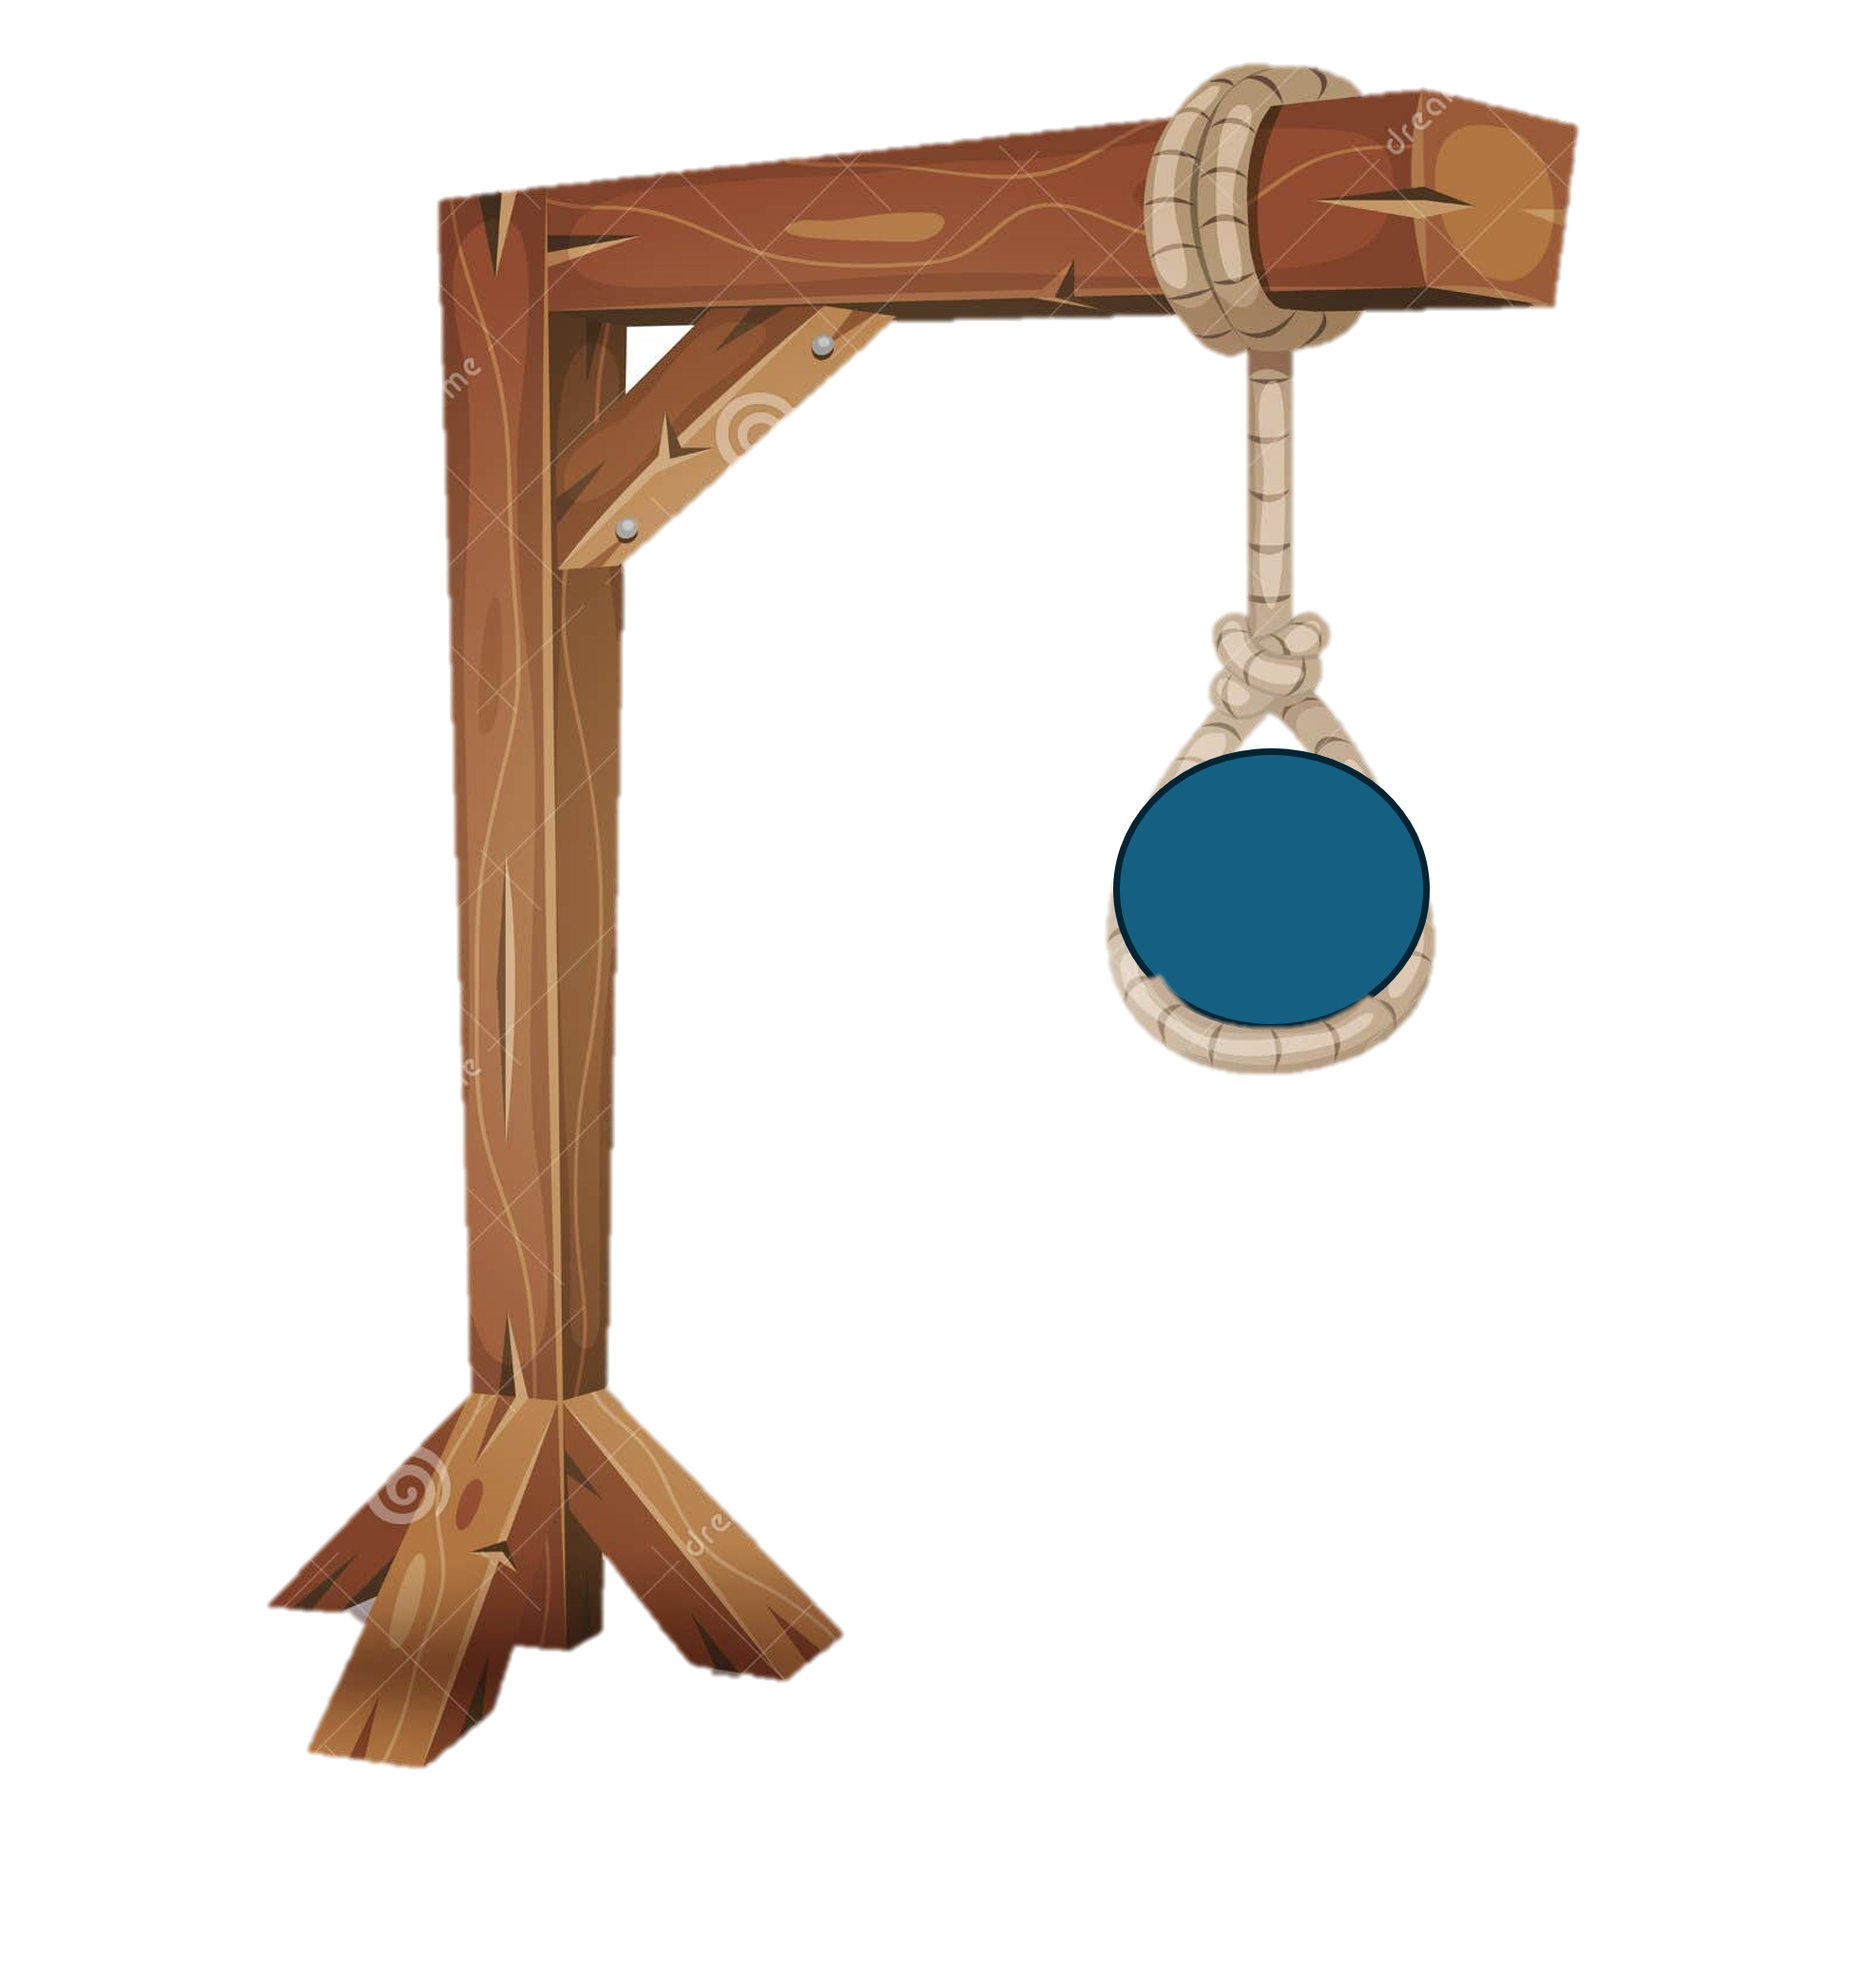
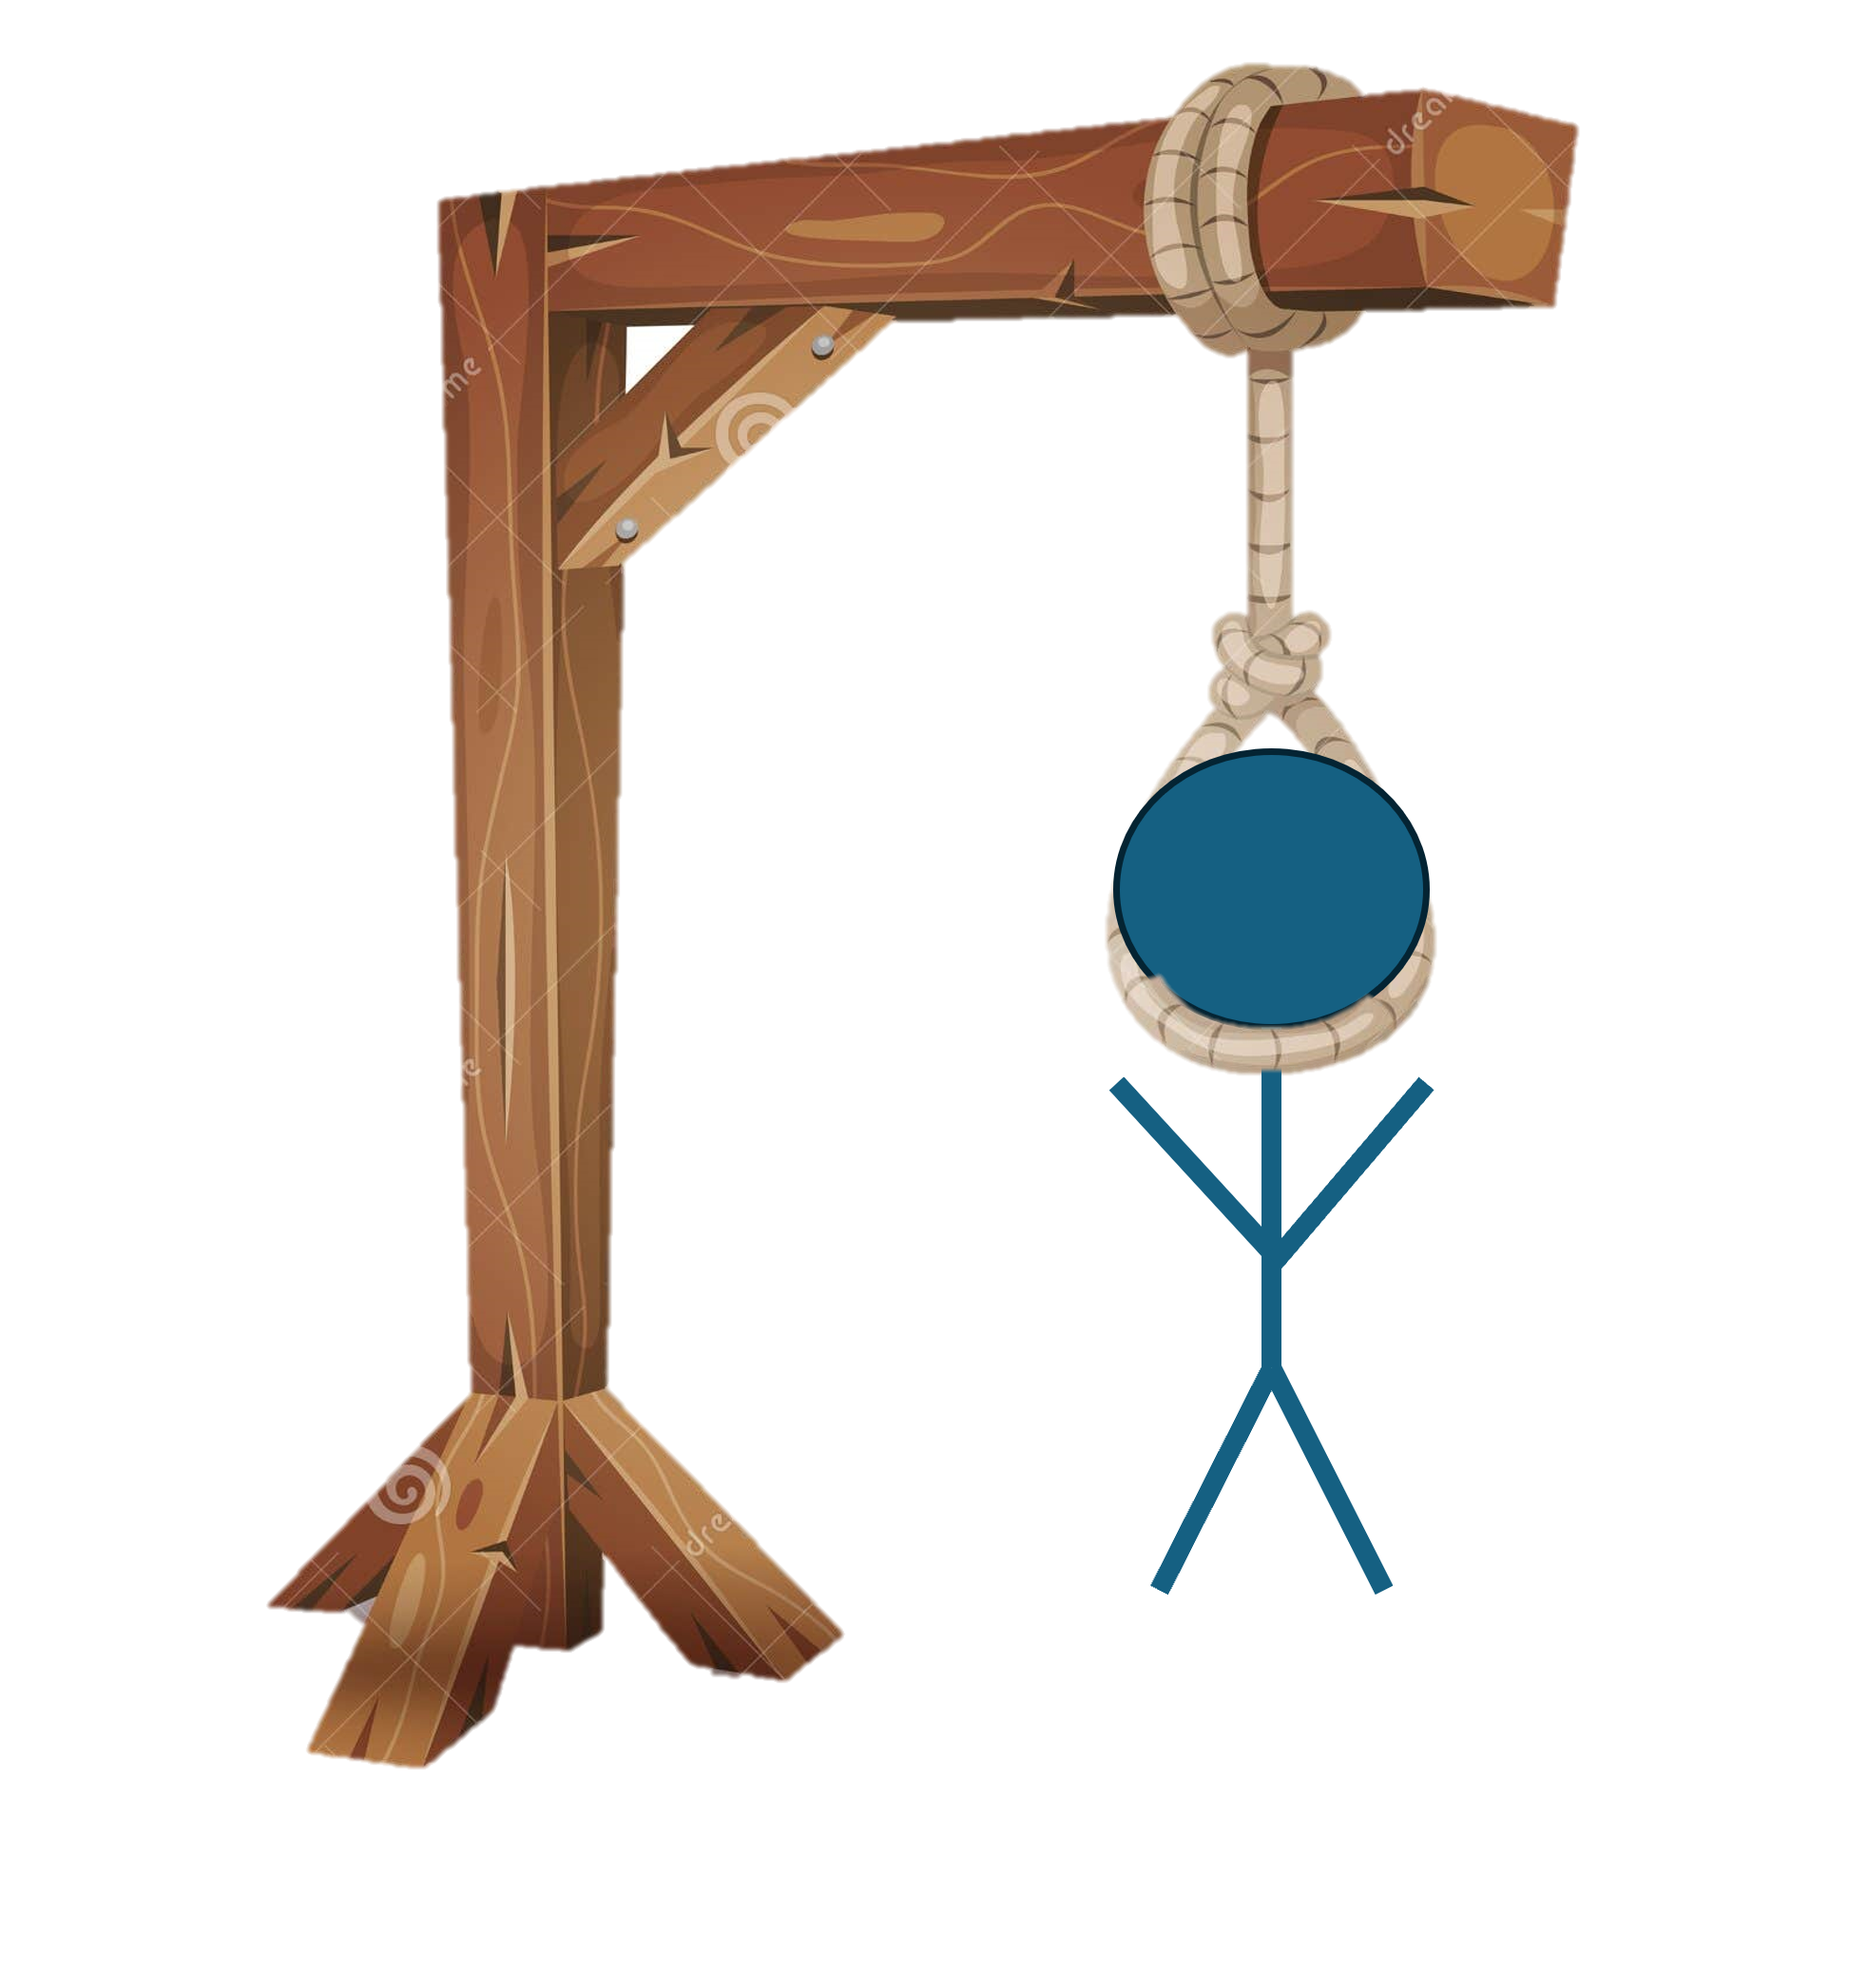
Se arregló la conexión entre los archivos js y html y se implementó la funcionalidad de los botones y que por cada error la imagen del ahorcado cambie

Changed region(s): [[0.5898, 0.5241, 0.7761, 0.8015], [0.6209, 0.7399, 0.6519, 0.8015]]

diff --git a/Ahorcado.js b/Ahorcado.js
@@ -1,23 +1,32 @@
+//Se creó la variable gloal palabra de la lista para poder utilizarla también al momento de 
+//interactuar con los botones de las letras
+let palabra_de_lista;
+let cant_errores = 0;
+let cant_aciertos = 0;
+
+
+
+
 //Creación de la constante palabras que va a ser una lista de palabras para adivinar
 const palabras = [
-    "hipopótamo",
-    "paralelepípedo",
-    "onomatopeya",
-    "sesquipedal",
-    "esternocleidomastoideo",
-    "electroencefalografista",
-    "quiropráctico",
-    "desoxirribonucleico",
-    "anticonstitucionalmente",
-    "ultramicroscópicamente"
+    'hipopótamo',
+    'paralelepipedo',
+    'onomatopeya',
+    'sesquipedal',
+    'esternocleidomastoideo',
+    'electroencefalografista',
+    'quiropractico',
+    'desoxirribonucleico',
+    'anticonstitucionalmente',
+    'ultramicroscopicamente'
 ];
-//se definió el boton jugar con el id que se le dio anteriormente al mismo
+//Se definió el boton jugar con el id que se le dio anteriormente al mismo
 //Luego se utilizó el método addEventListener que va a permitir que el navegador considere
 //la interacción click en el botón y se inicie el juego
-const button = id("jugar");
-button.addEventListener('Click', iniciar);
+const button = id('jugar');
+button.addEventListener('click', iniciar);
 
-console.log(button);
+console.log(button);    
 
 
 //Luego se va a crear la función que va a permitir que efectivamente nos de alguna palabra de la lista
@@ -32,16 +41,19 @@ console.log(button);
 //también se va a desabilitar el boton que inicia el juego para que no se puede reiniciar el juego a mitad
 //de partida.
 function iniciar(event){
+    console.log('hiciste click');
     button.disabled = true;
-    
-    const mostrador = id ("palabra_a_adivinar");
+    cant_errores = 0;
+    cant_aciertos = 0;
+    const mostrador =  id("palabra_a_adivinar");
     mostrador.innerHTML = ''
 
     const valor_mas_bajo = 0;
     const cant_palabras = palabras.length;
     const valor_al_azar = obtener_random(0, cant_palabras);
     
-    const palabra_de_lista = palabras[valor_al_azar];
+    palabra_de_lista = palabras[valor_al_azar];
+    console.log(palabra_de_lista);
     const cant_rayitas = palabra_de_lista.length;
     
     for (let i = 0; i < cant_rayitas; i ++ ){
@@ -49,6 +61,49 @@ function iniciar(event){
         mostrador.appendChild (span);
 
     }
+
+}
+
+//Constante que va a permitir devolver todos las letras de los botones
+//Se crea un for loop para que recorra desde la primera letra (indice 0) hasta el valor menor
+//que las letras totales de uno en uno
+//una vez los recorra y se quede con uno que reconozca que al hacer click va llamar a la función
+//click de letras 
+const button_letras = document.querySelectorAll("#letras button");
+for (let i = 0; i<button_letras.length; i ++){
+    button_letras[i].addEventListener('click', click_letras);
+}
+
+//se creo la función para poder clickear las letras
+//el event.target va a dar específicamente la letra clickeada
+// y se desabilitará la misma
+//pasar todas las palabras de la lista a que sean minúsculas al igual que las letras
+//el for va a permitir recorrrer letra por letra de la palabra y el if
+// va a ir comparando la letra clickeada con cualquiera de las letras de la palabra gracias al for
+function click_letras(event){
+    const spans = document.querySelectorAll('#palabra_a_adivinar span');
+    const button = event.target;
+    button.disabled = true;
+    const letra = button.innerHTML.toLowerCase();
+    const palabra = palabra_de_lista.toLowerCase();
+    
+    let acerto = false;
+    for(let i = 0; i<palabra.length; i++){
+        if(letra == palabra[i]){
+            spans[i].innerHTML = letra;
+            cant_aciertos++;
+
+            acerto = true;
+        }
+    }
+    if( acerto == false){
+            cant_errores++;
+            const source = `img/ahorcado${cant_errores}.png`
+            const imagen = id('imagen');
+            imagen.src = source;
+    }
+
+    console.log("la letra " + letra + " en la palabra " + palabra + " existe?? " + acerto);
 }
 
 

diff --git a/index.html b/index.html
@@ -1,5 +1,5 @@
 <!DOCTYPE html>
-<html lang="en">
+<html lang="es">
 <head>
     <meta charset="UTF-8">
     <meta http-equiv="X-UA-Compatible" content="IE=edge"/>
@@ -8,7 +8,6 @@
     <link rel="preconnect" href="https://fonts.gstatic.com" crossorigin />
     <link href="https://fonts.googleapis.com/css2?family=Carter+One&display=swap" rel="stylesheet" />
     <link rel="stylesheet" href="estilos.css" />
-    <script src="Ahorcado.js"></script>
     <title>Ahorcado</title>
 </head>
 <body>
@@ -17,14 +16,9 @@
             Ahorcado
         </h1>
         <main>
-            <img id="imagen" img src="img/ahorcado1.png" alt="Ahorcado"/>
+            <img id="imagen" img src="img/ahorcado0.jpg" alt="Ahorcado"/>
             <div>
                 <p id="palabra_a_adivinar">
-                     <span></span>
-                     <span></span>
-                     <span></span>
-                     <span></span>
-
                 </p>
                 <button id="jugar">Obtener palabra</button>
                 <div id="letras"> <!--Para que sea m'as flacil encontrarlo, sii-->
@@ -54,7 +48,6 @@
                     <button>y</button>
                     <button>z</button>
                 </div>
-
             </div>
         </main>
         <script src="Ahorcado.js"></script>

diff --git a/estilos.css b/estilos.css
@@ -40,11 +40,11 @@ A este main lo que le vamos a dar es un display tipo flex donde tenemos dos elem
 
 }
 
-#palabra_adivinadora{
+#palabra_a_adivinar{
     height:3em;
 }
 
-#palabra_adivinadora span{ 
+#palabra_a_adivinar span{ 
     vertical-align: bottom;
     font-size:2em;
 
